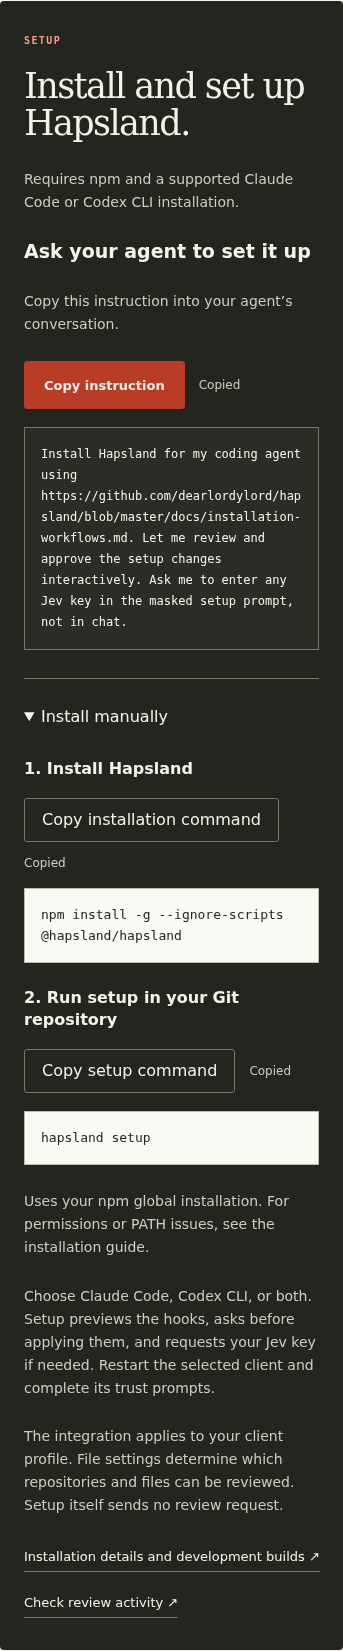
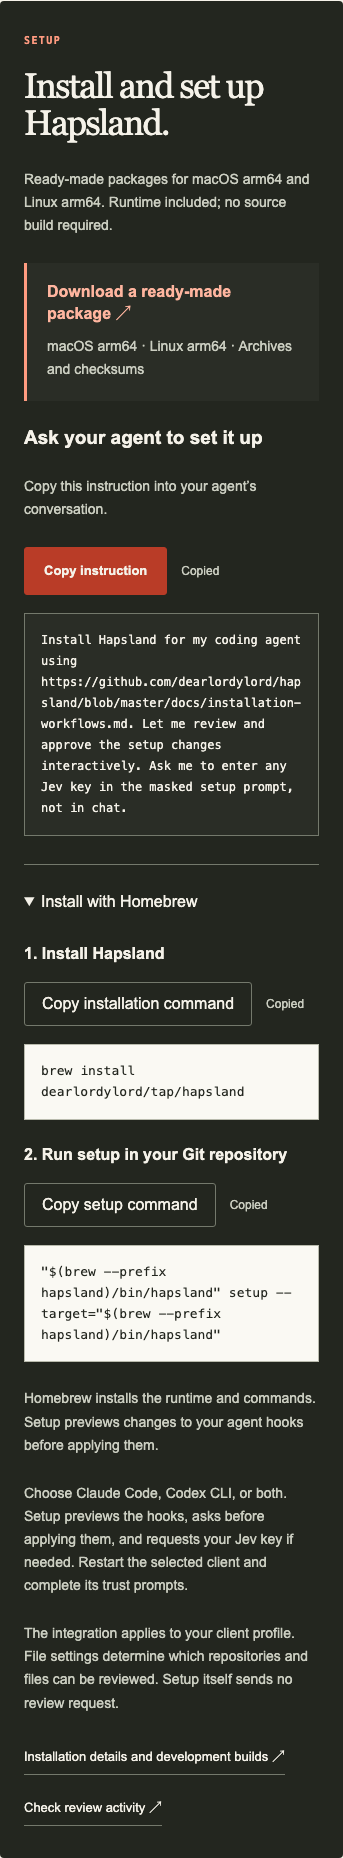
Highlight platform downloads beside agent setup instructions

diff --git a/packages/agent-flow-viz/src/site.ts b/packages/agent-flow-viz/src/site.ts
@@ -10,6 +10,7 @@ import { copyText } from "./site-clipboard"
 import productIcon from "./brand/product-icon.svg?url"
 import githubIcon from "./github.svg?url"
 
+const DOWNLOADS = "https://github.com/dearlordylord/hapsland-releases/releases/latest"
 const REPOSITORY = "https://github.com/dearlordylord/hapsland"
 const guide = (name: string) => `${REPOSITORY}/blob/master/docs/${name}.md`
 export const Model = Schema.Struct({
@@ -494,7 +495,10 @@ export const view = (model: Model, h: HtmlBuilder<Message>): Document => ({
               ),
               h.div(
                 [h.Class("hero-actions")],
-                [h.a([h.Href("#setup"), h.Class("text-link")], ["Read the setup guide ↓"])]
+                [
+                  h.a([h.Href(DOWNLOADS), h.Class("button-primary")], ["Download Hapsland ↗"]),
+                  h.a([h.Href("#setup"), h.Class("text-link")], ["Set up with your agent ↓"])
+                ]
               )
             ]
           ),
@@ -561,7 +565,14 @@ export const view = (model: Model, h: HtmlBuilder<Message>): Document => ({
         [
           h.p([h.Class("eyebrow")], ["SETUP"]),
           h.h2([], ["Install and set up Hapsland."]),
-          h.p([], ["Requires npm and a supported Claude Code or Codex CLI installation."]),
+          h.p([], ["Ready-made packages for macOS arm64 and Linux arm64. Runtime included; no source build required."]),
+          h.div(
+            [h.Class("download-strip")],
+            [
+              h.a([h.Href(DOWNLOADS), h.Class("download-link")], ["Download a ready-made package ↗"]),
+              h.p([], ["macOS arm64 · Linux arm64 · Archives and checksums"])
+            ]
+          ),
           h.div(
             [h.Class("agent-setup")],
             [
@@ -574,7 +585,7 @@ export const view = (model: Model, h: HtmlBuilder<Message>): Document => ({
           h.details(
             [h.Class("manual-setup")],
             [
-              h.summary([], ["Install manually"]),
+              h.summary([], ["Install with Homebrew"]),
               h.div(
                 [h.Class("setup-command")],
                 [
@@ -593,7 +604,9 @@ export const view = (model: Model, h: HtmlBuilder<Message>): Document => ({
               ),
               h.p(
                 [],
-                ["Uses your npm global installation. For permissions or PATH issues, see the installation guide."]
+                [
+                  "Homebrew installs the runtime and commands. Setup previews changes to your agent hooks before applying them."
+                ]
               )
             ]
           ),

diff --git a/packages/agent-flow-viz/src/site.css b/packages/agent-flow-viz/src/site.css
@@ -1543,3 +1543,29 @@ h3 {
 
 .github-link { display: inline-flex; align-items: center; gap: 8px; padding: 8px; }
 .github-link img { display: block; }
+
+/* Download actions stay beside the agent-led setup path. */
+.hero-actions {
+  flex-wrap: wrap;
+}
+.hero-actions .button-primary {
+  text-decoration: none;
+}
+.download-strip {
+  margin: 24px 0;
+  padding: 20px;
+  border-left: 3px solid #ff9b80;
+  background: #ffffff09;
+}
+.download-strip .download-link {
+  color: #ffb59f;
+  font-weight: 700;
+  text-underline-offset: 4px;
+}
+.download-strip .download-link:hover {
+  color: var(--paper);
+}
+.setup .download-strip p {
+  margin: 10px 0 0;
+  font-size: 14px;
+}

diff --git a/packages/agent-flow-projection/src/setup-copy.ts b/packages/agent-flow-projection/src/setup-copy.ts
@@ -2,7 +2,7 @@
 export const SETUP_COPY = {
   instruction:
     "Install Hapsland for my coding agent using https://github.com/dearlordylord/hapsland/blob/master/docs/installation-workflows.md. Let me review and approve the setup changes interactively. Ask me to enter any Jev key in the masked setup prompt, not in chat.",
-  install: "npm install -g --ignore-scripts @hapsland/hapsland",
-  setup: "hapsland setup"
+  install: "brew install dearlordylord/tap/hapsland",
+  setup: '"$(brew --prefix hapsland)/bin/hapsland" setup --target="$(brew --prefix hapsland)/bin/hapsland"'
 } as const
 export type SetupCopyTarget = keyof typeof SETUP_COPY

diff --git a/README.md b/README.md
@@ -149,6 +149,13 @@ not establish rule accuracy. See [languages and limits](#languages-and-limits).
 
 ## Installation
 
+> [!TIP]
+> **[Download Hapsland ↗](https://github.com/dearlordylord/hapsland-releases/releases/latest)**
+>
+> macOS arm64 · Linux arm64 · Runtime included.
+>
+> [Installation and checksum verification](./docs/installation-workflows.md#install-a-ready-made-platform-release).
+
 Ask your coding agent to install it:
 
 <!-- agent-setup-instruction:start -->
@@ -163,11 +170,6 @@ Ready-made packages are available for macOS arm64 and Linux arm64:
 brew install dearlordylord/tap/hapsland
 "$(brew --prefix hapsland)/bin/hapsland" setup --target="$(brew --prefix hapsland)/bin/hapsland"
 ```
-
-For direct downloads, checksums and updates, see the
-[platform installation workflow](./docs/installation-workflows.md#install-a-ready-made-platform-release)
-and [public releases](https://github.com/dearlordylord/hapsland-releases/releases).
-These packages include their runtime and require no source build.
 
 The public npm package returned **404 on 2026-10-06**; the npm commands below
 require a separate npm publication. Contributors can still use the

diff --git a/packages/agent-flow-viz/README.md b/packages/agent-flow-viz/README.md
@@ -88,8 +88,9 @@ controls, paused Canvas output, mobile resizing, manual reduced-motion steps, an
 clipboard contents on secure and HTTP/IP origins. The linked captures below show
 the current circular composition.
 
-The setup section offers a copyable agent instruction first, with short manual
-installation and setup commands in a disclosure. Text is owned by `../agent-flow-projection/src/setup-copy.ts`.
+The hero highlights the latest platform download beside the agent setup link.
+The setup section highlights ready-made archives immediately above the copyable
+agent instruction, with Homebrew installation and setup commands in a disclosure. Text is owned by `../agent-flow-projection/src/setup-copy.ts`.
 The agent instruction also generates marked sections in the root README and
 installation guide through `npm run docs:generate`; `docs:generated:check` rejects drift.
 FoldKit commands call `src/site-clipboard.ts`. Secure origins use Clipboard API,
